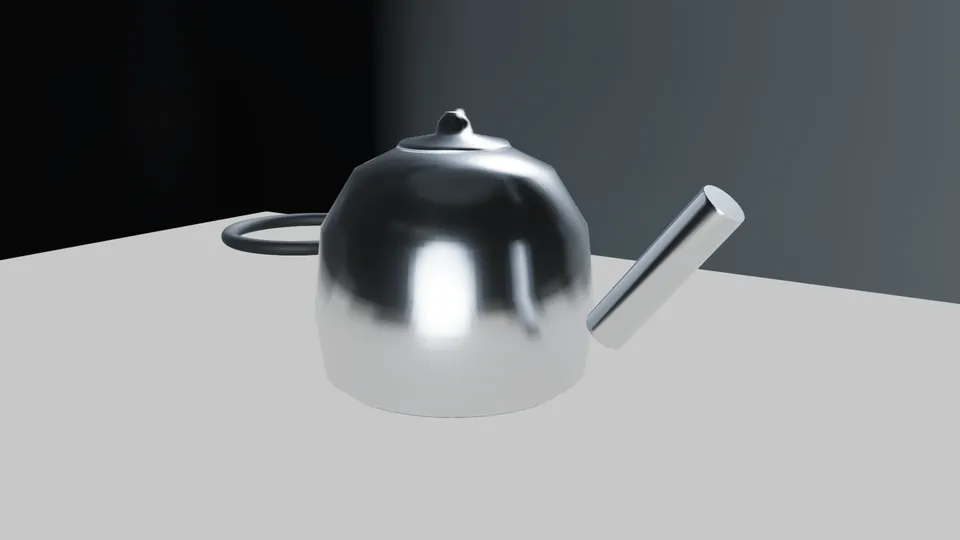
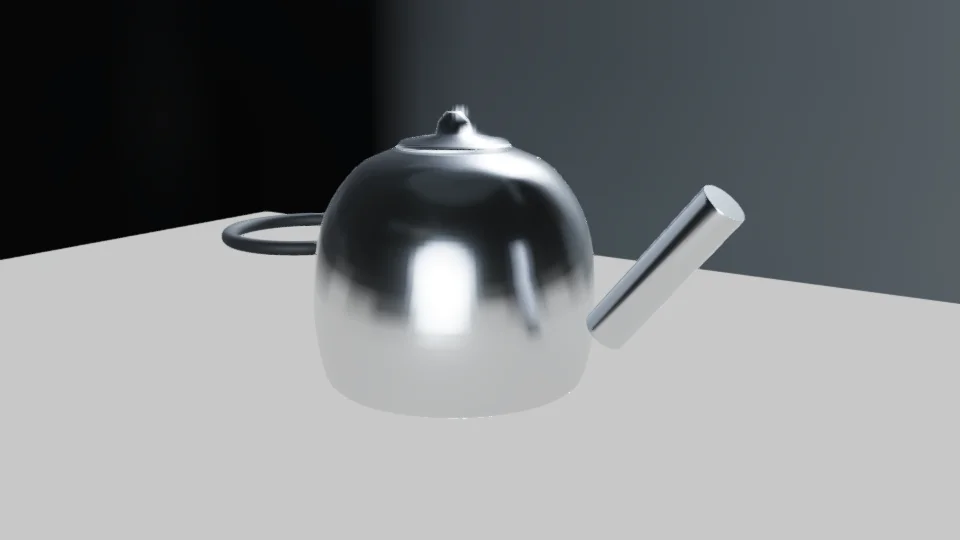
Smooth the recipe kettle and fix the tan AgX lamp shade (#2002)
The kettle body profile had 8 points, so its silhouette showed corners; it now follows a Catmull-Rom curve through the same points. The lamp shade emission drops from 0.7 to 0.3: a bright orange loses saturation under AgX by design, so the old shade read tan. The page text now says what renders.

diff --git a/site/recipe-view-transform.html b/site/recipe-view-transform.html
@@ -19,7 +19,7 @@
       <p class="recipe-back"><a href="/recipes.html"><svg viewBox="0 0 24 24" aria-hidden="true"><path d="m15 6-6 6 6 6"/></svg>Recipes</a></p>
       <h1>View transform: ACES against AgX on a warm lamp</h1>
       <div class="recipe-pair"><figure><img src="/recipes/view-transform-before.webp" width="960" height="540" alt="View transform: ACES against AgX on a warm lamp: ACES" /><figcaption>ACES</figcaption></figure><figure><img src="/recipes/view-transform-after.webp" width="960" height="540" alt="View transform: ACES against AgX on a warm lamp: AgX" /><figcaption>AgX</figcaption></figure></div>
-      <div class="recipe-why"><p>The view transform turns scene light into the pixels on screen. ACES pushes a strong orange toward yellow and adds contrast. AgX keeps the orange orange and rolls bright areas off gently.</p><p>Pick it on purpose: ACES is the default, AgX suits lit scenes and matches Blender, neutral keeps product colours as authored.</p></div>
+      <div class="recipe-why"><p>The view transform turns scene light into the pixels on screen. ACES pushes the bright orange of the bulb toward yellow and adds contrast. AgX keeps the shade orange and rolls the bulb off to a warm white.</p><p>Pick it on purpose: ACES is the default, AgX suits lit scenes and matches Blender, neutral keeps product colours as authored.</p></div>
       <section class="recipe-code" aria-labelledby="scene-code-title">
         <div class="recipe-code-heading"><h2 id="scene-code-title">Scene code</h2><button type="button" data-copy-code="scene-code">Copy</button></div>
         <pre><code id="scene-code">{
@@ -34,7 +34,7 @@
   ],
   &quot;materials&quot;: [
     { &quot;id&quot;: &quot;brass&quot;, &quot;color&quot;: [0.6, 0.38, 0.12], &quot;metallic&quot;: 0.9, &quot;roughness&quot;: 0.3 },
-    { &quot;id&quot;: &quot;shade&quot;, &quot;color&quot;: [0.9, 0.45, 0.12], &quot;metallic&quot;: 0, &quot;roughness&quot;: 0.7, &quot;emission&quot;: 0.7, &quot;emissiveColor&quot;: [1, 0.35, 0.05] },
+    { &quot;id&quot;: &quot;shade&quot;, &quot;color&quot;: [0.9, 0.45, 0.12], &quot;metallic&quot;: 0, &quot;roughness&quot;: 0.7, &quot;emission&quot;: 0.3, &quot;emissiveColor&quot;: [1, 0.35, 0.05] },
     { &quot;id&quot;: &quot;glow&quot;, &quot;color&quot;: [1, 0.35, 0.05], &quot;emission&quot;: 3, &quot;emissiveColor&quot;: [1, 0.35, 0.05] },
     { &quot;id&quot;: &quot;table&quot;, &quot;color&quot;: [0.36, 0.22, 0.14], &quot;metallic&quot;: 0, &quot;roughness&quot;: 0.5 },
     { &quot;id&quot;: &quot;wall&quot;, &quot;color&quot;: [0.12, 0.1, 0.1], &quot;metallic&quot;: 0, &quot;roughness&quot;: 0.9 }

diff --git a/site/recipe-hdri-lighting.html b/site/recipe-hdri-lighting.html
@@ -26,7 +26,7 @@
   &quot;format&quot;: &quot;crucible.scene&quot;,
   &quot;schemaVersion&quot;: 1,
   &quot;geometries&quot;: [
-    { &quot;id&quot;: &quot;body&quot;, &quot;type&quot;: &quot;lathe&quot;, &quot;segments&quot;: 96, &quot;profile&quot;: [[0, 0], [0.38, 0], [0.43, 0.04], [0.46, 0.25], [0.43, 0.52], [0.32, 0.7], [0.18, 0.77], [0, 0.77]] },
+    { &quot;id&quot;: &quot;body&quot;, &quot;type&quot;: &quot;lathe&quot;, &quot;segments&quot;: 96, &quot;profile&quot;: [[0,0],[0.38,0],[0.387,0.003],[0.397,0.005],[0.409,0.01],[0.42,0.02],[0.43,0.04],[0.438,0.07],[0.446,0.109],[0.453,0.154],[0.458,0.201],[0.46,0.25],[0.459,0.302],[0.456,0.358],[0.451,0.416],[0.442,0.471],[0.43,0.52],[0.414,0.564],[0.393,0.604],[0.37,0.64],[0.345,0.672],[0.32,0.7],[0.292,0.722],[0.259,0.739],[0.227,0.752],[0.2,0.762],[0.18,0.77],[0,0.77]] },
     { &quot;id&quot;: &quot;lid&quot;, &quot;type&quot;: &quot;lathe&quot;, &quot;segments&quot;: 64, &quot;profile&quot;: [[0, 0], [0.19, 0], [0.17, 0.03], [0.06, 0.05], [0.05, 0.09], [0.025, 0.12], [0, 0.12]] },
     { &quot;id&quot;: &quot;spout&quot;, &quot;type&quot;: &quot;cylinder&quot;, &quot;segments&quot;: 32 },
     { &quot;id&quot;: &quot;handle&quot;, &quot;type&quot;: &quot;torus&quot;, &quot;tubeRadius&quot;: 0.09, &quot;segments&quot;: 64, &quot;sides&quot;: 16 },

diff --git a/changes/2002.md b/changes/2002.md
@@ -1,0 +1,1 @@
+- Smooth the kettle body on the HDRI recipe page with a denser profile, and dim the lamp shade on the view transform page so the AgX shade stays orange; the page text now says what the pictures show (the bulb turns yellow under ACES and warm white under AgX).
